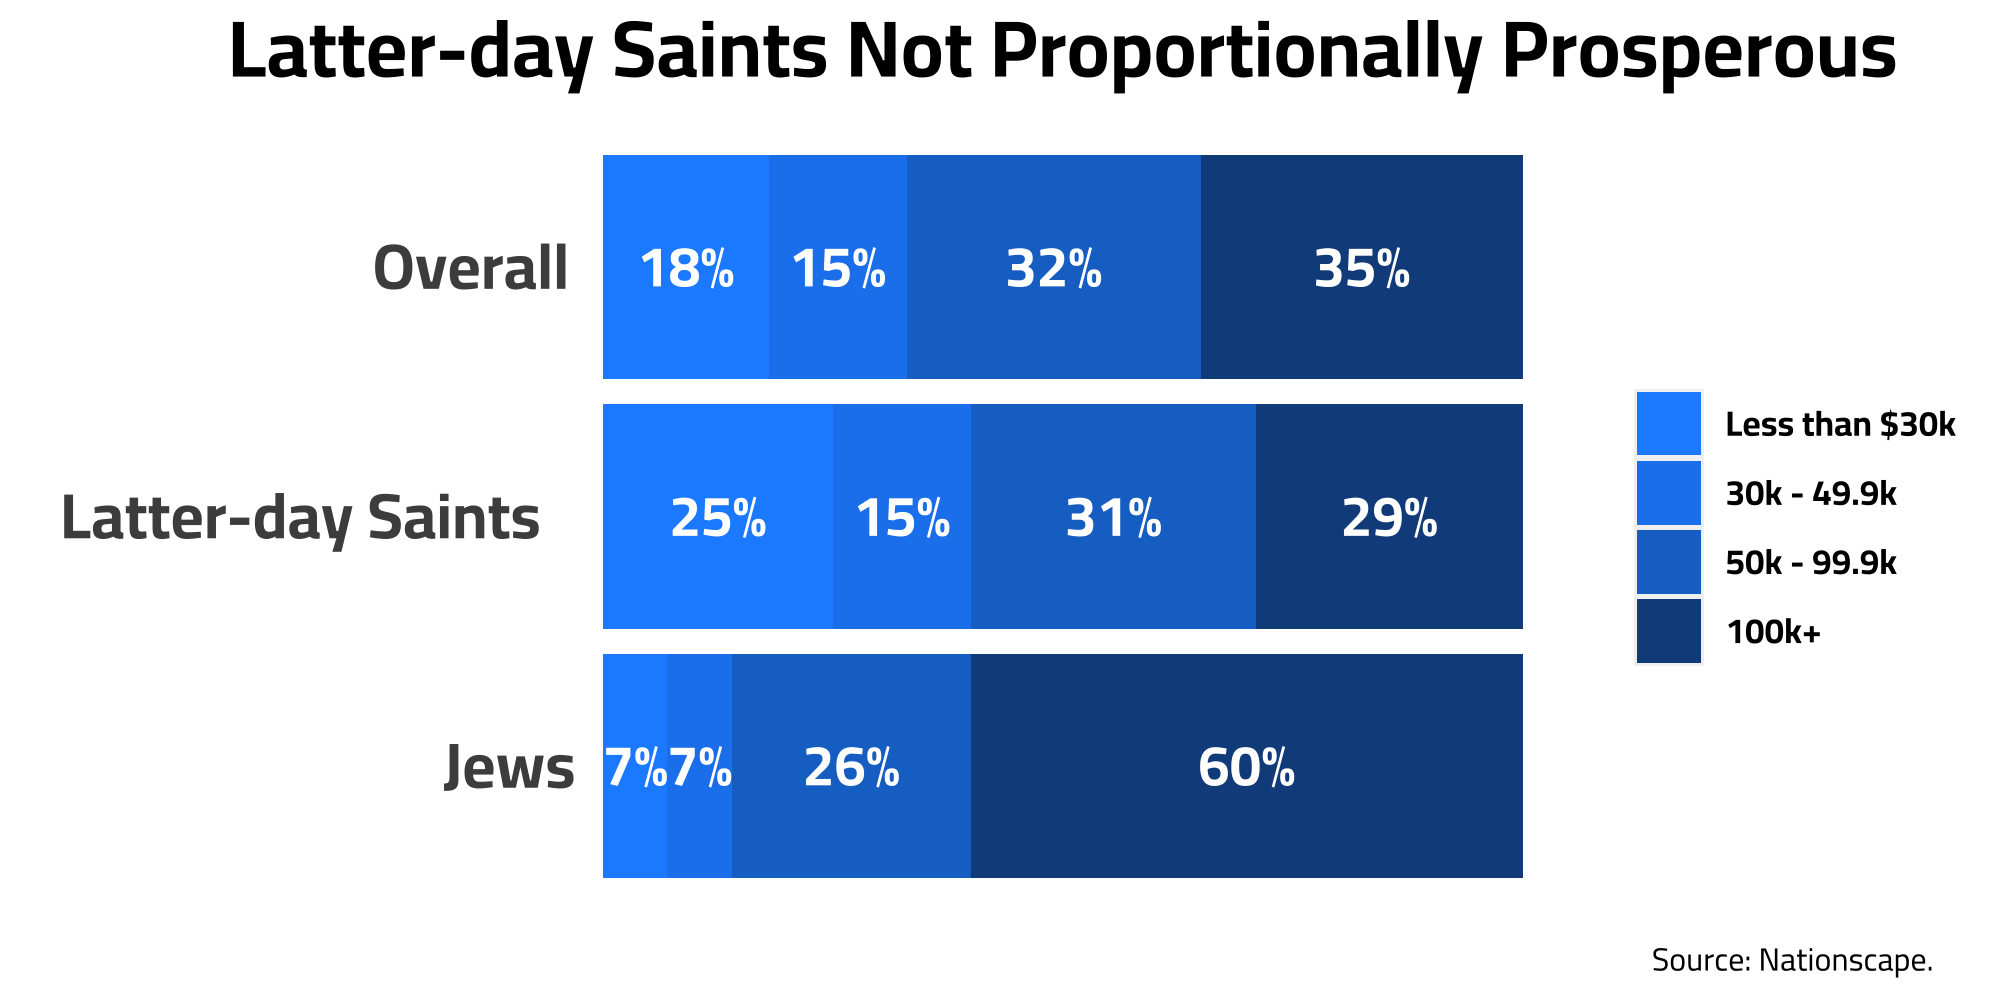
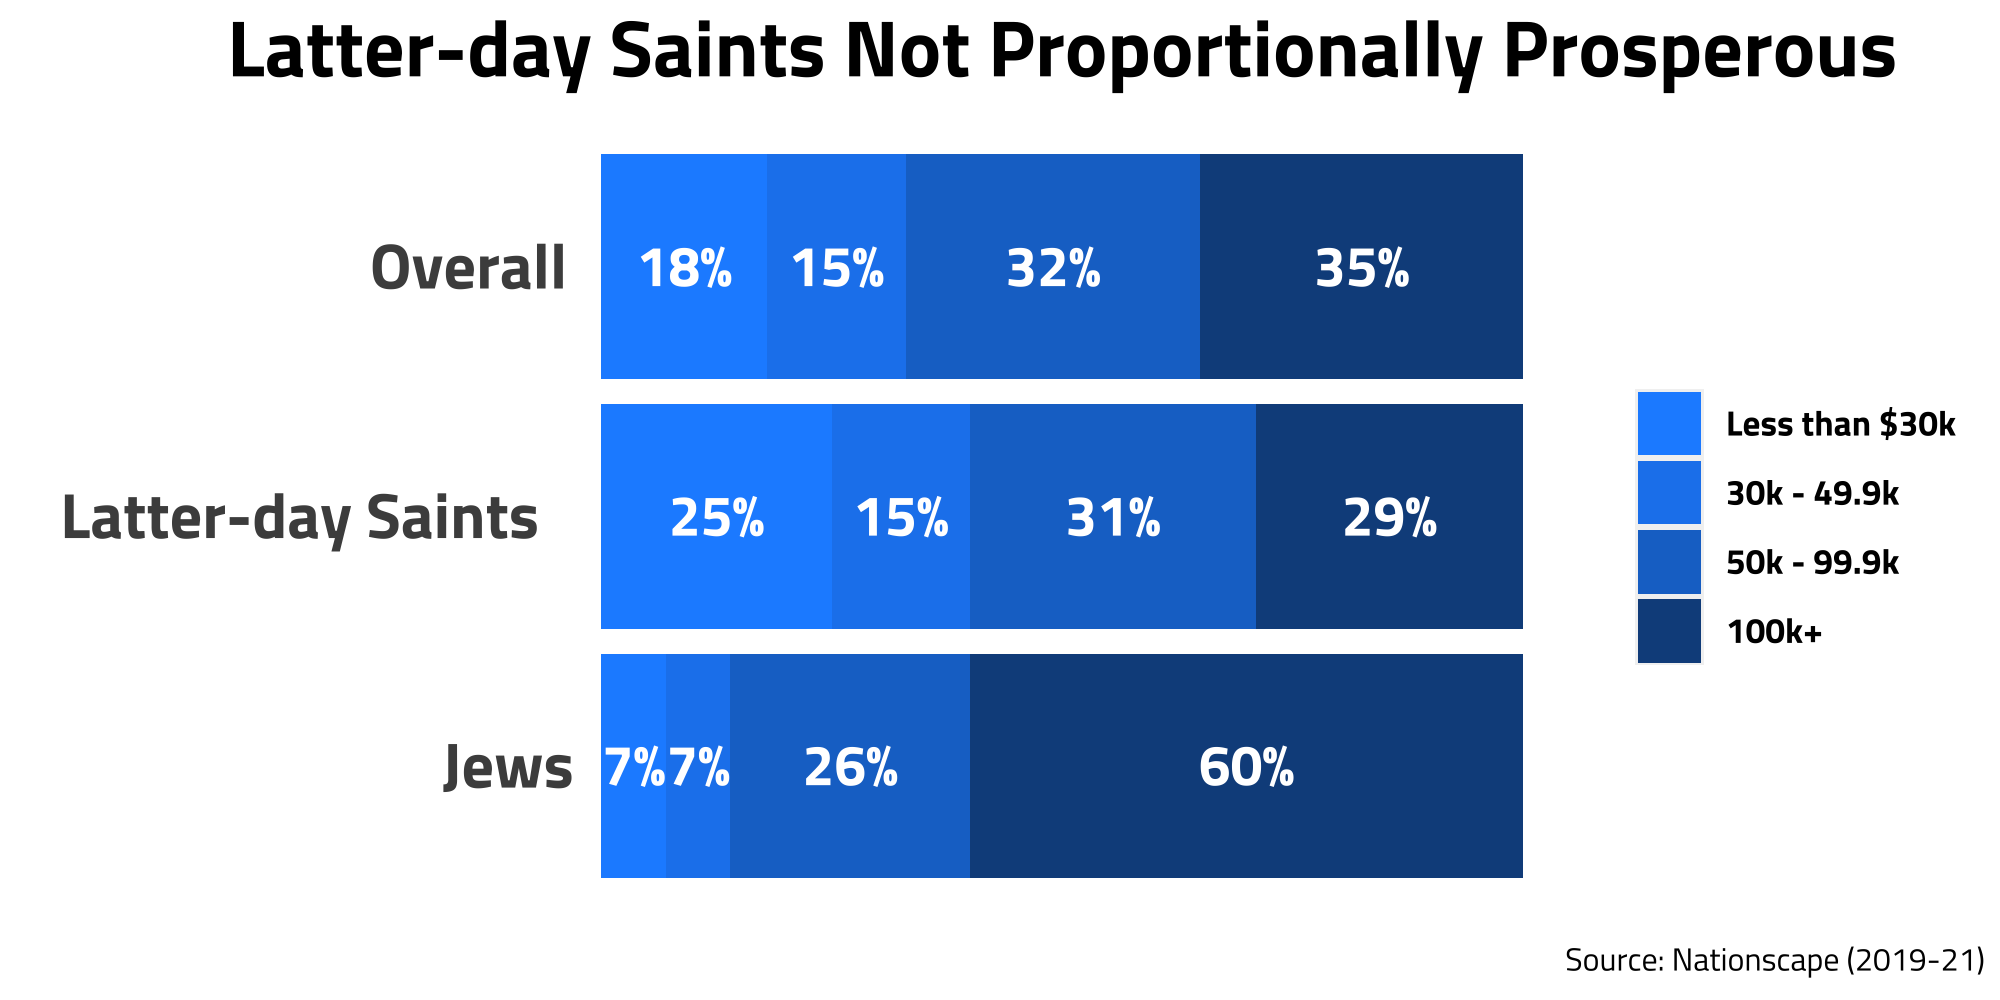
major text edits

diff --git a/_site/posts/income_myth/index.html b/_site/posts/income_myth/index.html
@@ -6,7 +6,7 @@
 
 <meta name="viewport" content="width=device-width, initial-scale=1.0, user-scalable=yes">
 
-<meta name="dcterms.date" content="2023-01-30">
+<meta name="dcterms.date" content="2023-02-06">
 
 <title>alexbass.me - Myth of Latter-day Saint Prosperity</title>
 <style>
@@ -73,13 +73,13 @@ ga('send', {
 
 <link rel="stylesheet" href="../../styles.css">
 <meta property="og:title" content="alexbass.me - Myth of Latter-day Saint Prosperity">
-<meta property="og:description" content="This post is mainly geared toward my Latter - day Saint peers because I think, collectively, we have some misconceptions about what the demographics of the LDS church are within the United States.">
+<meta property="og:description" content="As a member of the LDS church, I have grown up hearing the claim although US Latter-day Saints make up only a small percentage of the population, we are disproportionally wealthy when compared to…">
 <meta property="og:image" content="https://alexbass.me/about_files/LDS_myth_0.png">
 <meta property="og:site-name" content="alexbass.me">
 <meta property="og:image:height" content="958">
 <meta property="og:image:width" content="1960">
 <meta name="twitter:title" content="alexbass.me - Myth of Latter-day Saint Prosperity">
-<meta name="twitter:description" content="This post is mainly geared toward my Latter - day Saint peers because I think, collectively, we have some misconceptions about what the demographics of the LDS church are within the United States.">
+<meta name="twitter:description" content="As a member of the LDS church, I have grown up hearing the claim although US Latter-day Saints make up only a small percentage of the population, we are disproportionally wealthy when compared to…">
 <meta name="twitter:image" content="https://alexbass.me/about_files/LDS_myth_0.png">
 <meta name="twitter:creator" content="@acbass49">
 <meta name="twitter:image-height" content="958">
@@ -140,7 +140,7 @@ ga('send', {
     <div>
     <div class="quarto-title-meta-heading">Published</div>
     <div class="quarto-title-meta-contents">
-      <p class="date">January 30, 2023</p>
+      <p class="date">February 6, 2023</p>
     </div>
   </div>
     
@@ -156,38 +156,38 @@ ga('send', {
 </div>
 <section id="introduction" class="level3">
 <h3 class="anchored" data-anchor-id="introduction">Introduction</h3>
-<p>This post is mainly geared toward my Latter - day Saint peers because I think, collectively, we have some misconceptions about what the demographics of the LDS church are within the United States. Though I don’t have data to back this claim up per say that other LDS people in fact think this, I often hear when speaking with others the claim that <strong>although members of the church make up only a small percentage of the population, we are disproportionally wealthy when compared to the general population</strong>. After hearing this claim again yesterday, since I’ve thought this was false, I decided now to look at some data describing this claim. I believe my opinion changed on this awhile back when I read a Pew Research article that provided a demographic profile of Mormons in the US. If anyone is interested in the original article I read, I did find it <a href="https://www.pewresearch.org/religion/2009/07/24/a-portrait-of-mormons-in-the-us/">here</a>.</p>
+<p>As a member of the LDS church, I have grown up hearing the claim <em>although US Latter-day Saints make up only a small percentage of the population, we are disproportionally wealthy when compared to the US general population</em>. I assume this is a common misconception, given the amount of times I have heard it, as well as something I believed myself. At some point, I came across an article regarding Mormons in the US. I would just refer you to <a href="https://www.pewresearch.org/religion/2009/07/24/a-portrait-of-mormons-in-the-us/">that article</a> and you could be on your way, but the data is from 2009 (which is almost 15 years ago now!) What a perfect opportunity for me to grill up some yummy data snacks regarding the breakdown of Latter-day Saints by income and how it has changed over time.</p>
 </section>
 <section id="the-meat" class="level3">
 <h3 class="anchored" data-anchor-id="the-meat">The Meat</h3>
-<p>Using data from a large political survey project of <a href="https://www.voterstudygroup.org/nationscape">500,000 Interviews from 2019-2021</a>, I was able to filter the sample to only Latter-day Saint respondents and ended up with a sample 6452 members found across the United States. I used the same data source as a <a href="../.././posts/lds_gop">previous blog post</a> I wrote up, but have more data this time since the third survey fielding wave was completed after I wrote it.</p>
+<p>Using data from a large political survey project of <a href="https://www.voterstudygroup.org/nationscape">500,000 Interviews from 2019-2021</a>, I was able to filter the sample to only Latter-day Saint respondents and ended up with a sample 6,452 members found across the United States. I used the same data source as a previous blog post I wrote up <a href="../.././posts/lds_gop">here</a> if interested.</p>
 <div class="quarto-figure quarto-figure-center">
 <figure class="figure">
 <p><img src="../.././about_files/LDS_myth_1.png" class="img-fluid figure-img"></p>
 </figure>
 </div>
-<p>From this figure, we can see that (and some of this also noted in the Pew article above) that the LDS actually has a larger lower and middle class and has a smaller proportion of people in the highest income bracket than the rest of the population. Hopefully, this is enough to convince you that Latter-day Saints being proportionally wealthier is a myth.</p>
+<p>From this figure, we can answer our our first question! We can see that in 2021 the LDS actually has larger lower and middle classes and has a smaller proportion of people in the highest income bracket than the rest of the population. Hopefully, this is enough to convince you that Latter-day Saints being proportionally wealthier is a myth.</p>
 <p>I included Jews for the sake of including a group that <em>actually is</em> proportionally wealthy, and the gap is large. According to our data, the Jews are <em>more than twice as likely to be in the top income bracket</em> than Latter-day Saints.</p>
-<p>Our last figure showed a snapshot of LDS wealth in 2019-2021, but how has this looked over the last 15 years? Are Latter-day Saints getting wealthier over time or perhaps the other way around?</p>
-<p>Aside from Nationscape, Pew Research Center publishes a <a href="https://www.pewresearch.org/religion/religious-landscape-study/">religous landscape study</a> that collects large(ish) sample sizes of many religious groups in the United States. For Latter-day Saints, there is a sample of around 500 for this study which was fielded in 2007 and 2014. From these we can create look at LDS wealth over the last 15 years in increments of 7 years.</p>
+<p>Now lets look at how this trend has changed over the last 15 years…</p>
+<p>Our data source we used above is only for 2019-21, so we need to combine another source for this next graph. Pew Research Center publishes a <a href="https://www.pewresearch.org/religion/religious-landscape-study/">religous landscape study</a> that collects large sample sizes of most religious groups in the United States. For Latter-day Saints, there is a sample of around 500 for this study which was fielded in 2007 and 2014. From this, we can look at 3 snapshots of LDS income over the last 15 years.</p>
 <div class="quarto-figure quarto-figure-center">
 <figure class="figure">
 <p><img src="../.././about_files/LDS_myth_2.png" class="img-fluid figure-img"></p>
 </figure>
 </div>
-<p>From the second figure, it definitely looks like wealth is increasing over time among Latter-day Saints. In the 100k+ group, we see 16% to 20% then 29%. But when viewing this graph, we should keep in mind that we don’t account for how money and income have changed over the last 15 years. The dollar has gotten more inflated and so by income percentile LDS may not have moved at all compared to the rest of the US. We would need to see a figure with the US overall numbers plotted over time to be sure. Well as it turns out - I am the graph man, so I’ll just make another one.</p>
-<p>One other note about the above figure: I find it interesting that the proportion of LDS people in the lowest income bracked has remained relatively stable over time. While we don’t have the data we need to safely make this claim, our graph could suggest that there is a slight income disparity growing within the church as the middle shrinks over time.</p>
+<p>It definitely looks like income is increasing over time among Latter-day Saints. In the 100k+ group, we see 16% to 20% then 29%. However, this doesn’t account for forces like inflation and how the overall US population has moved over the last 15 years. So let’s make another one, to see how income has changed compared to the general population</p>
+<p><em>Side note about the above figure: I find it interesting that the proportion of LDS people in the lowest income bracket has remained relatively stable over time. While we don’t have the data we need to safely make this claim, our graph could suggest that there is a slight income disparity growing within the church as the middle income bracket shrinks over time.</em></p>
 <div class="quarto-figure quarto-figure-center">
 <figure class="figure">
 <p><img src="../.././about_files/LDS_myth_3.png" class="img-fluid figure-img"></p>
 </figure>
 </div>
-<p>In our last figure, we see a different story from our previous graph. Jews, our proportionally prosperous group, are soaring above the overall population as share whose household income is 100k+. Over time, Latter - day Saints have consistently remained below the overall population in household income - at least in the last 15 years. Also, it seems that this gap is growing over time between the overall population and Latter - day Saints. In 2007 on our graph, there is a 6 point difference between the Overall population and Latter-day Saints which seems to grow over time from 6 to 8 to finally 11. From our third graph, it might suggest that not only are latter-day saints below the average, but may even be getting poorer over time!</p>
-<hr>
+<p>Looking now at the Latter - day Saint group over time, the percentage of households making 100k+ consistently remains lower than the overall population. Also, it seems that the gap between the overall population and Latter - day Saints is growing over time. In 2007, there is a 6 point difference and goes from 6 to 8 to finally 11. Perhaps not only are Latter-day saints below the average, but may even be getting poorer over time!</p>
+<p>Latter-day Saints are not a poor group overall (30% make 6-figures+!), this information just disputes the claim that Latter-Day Saints are proportionally wealthy.</p>
 </section>
-<section id="why-does-this-myth-exist" class="level3">
-<h3 class="anchored" data-anchor-id="why-does-this-myth-exist">Why does this myth exist?</h3>
-<p>[insert don’t trust your gut quote. The bias of young startup founders.]</p>
+<section id="appendix" class="level3">
+<h3 class="anchored" data-anchor-id="appendix">Appendix</h3>
+<p>The code that I used to analyze this data and create the graphs above are found on <a href="https://github.com/acbass49/Nationscape">github</a>. Please reach out with any questions or thoughts.</p>
 
 
 </section>

diff --git a/_site/blog.html b/_site/blog.html
@@ -171,7 +171,7 @@ ga('send', {
 
 <div class="quarto-listing quarto-listing-container-default" id="listing-listing">
 <div class="list quarto-listing-default">
-<div class="quarto-post image-right" data-index="0" data-categories="Data Journalism,LDS,R" data-listing-date-sort="1675054800000" data-listing-file-modified-sort="1675388839015" data-listing-reading-time-sort="3.695">
+<div class="quarto-post image-right" data-index="0" data-categories="Data Journalism,LDS,R" data-listing-date-sort="1675659600000" data-listing-file-modified-sort="1675723707652" data-listing-reading-time-sort="3.105">
 <div class="thumbnail">
 <p><a href="./posts/income_myth/index.html"> <img src="./about_files/LDS_myth_0.png" class="thumnail-image"> </a></p>
 </div>
@@ -200,7 +200,7 @@ R
 <div class="metadata">
 <a href="./posts/income_myth/index.html">
 <div class="listing-date">
-Jan 30, 2023
+Feb 6, 2023
 </div>
 </a>
 </div>
